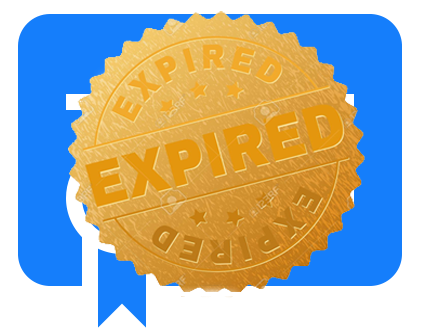
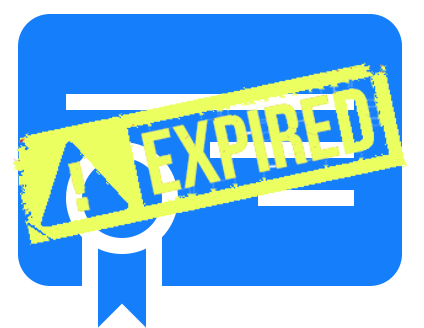
prikaz isteklih sertifikata u stablu

diff --git a/src/main/resources/static/js/tree.js b/src/main/resources/static/js/tree.js
@@ -83,6 +83,16 @@ const displayNodes=(data)=>{
 			       
 			    });
 			})
+		} else{
+			let id=$('#nodeID').html()
+			$.ajax({
+		        url : '/certificate/revokedReason/'+id,
+		        type : 'get',
+		        success : data=>{ 
+		        	$('#nodeR').append(' ('+JSON.parse(data).reason+')')
+		        }
+		       
+		    });
 		}
 		$('#nodeEnd').html(nodeData.startDate)
 		$('#nodeStart').html(nodeData.endDate)
@@ -118,12 +128,16 @@ const createNode=data=> {
 	
 	ret.shape= 'image'
 	if(!isRevoked(data.id))
-		ret.image= '/img/certificate.png'
+		if(!isPastToday(data.endDate))
+			ret.image= '/img/certificate.png'
+		else
+			ret.image= '/img/expired.png'
+
 	else
 		ret.image= '/img/revoked.png'
 	if(data.id===ret.issuer)
 		ret.level=0
-	//todo:isPastToday(data.endDate)
+	
 	return ret
 }
 
@@ -186,6 +200,13 @@ function refreshToken(){
         	   localStorage.setItem('jwtToken',data.accessToken);
         }
 	});
+}
+
+const isPastToday=(date)=>{
+	let today=new Date()
+	let x=date.split(' ')
+	let d=new Date(x[1]+' '+x[2]+' '+x[5])
+	return d<today
 }
 
 $(document).ready(init)
